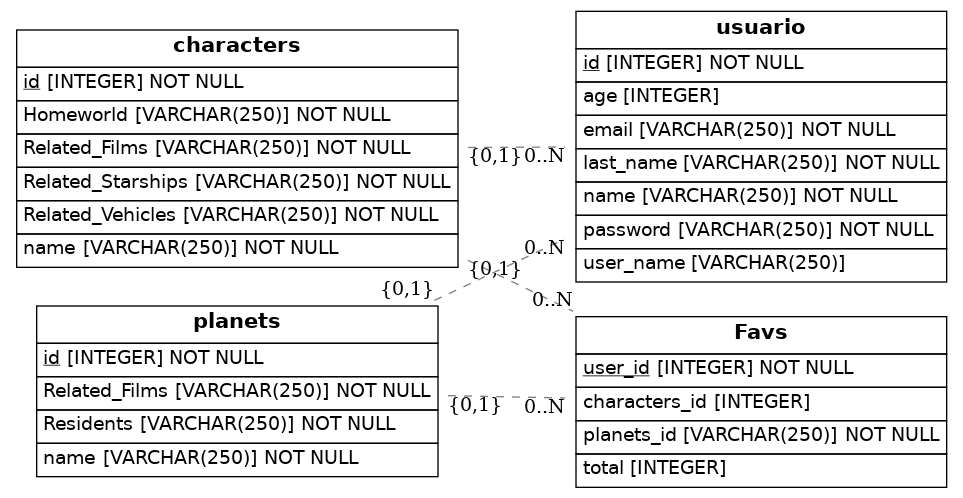
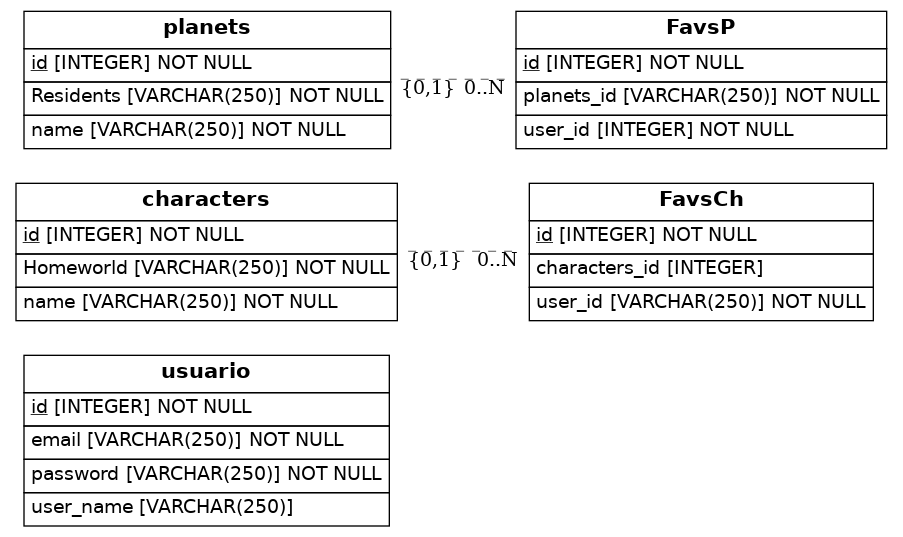
hjcvsjd

Changed region(s): [[0.0, 0.0, 0.9922, 0.994]]

diff --git a/src/models.py b/src/models.py
@@ -13,10 +13,11 @@ class Usuario(Base):
     # Here we define columns for the table person
     # Notice that each column is also a normal Python instance attribute.
     id = Column(Integer, primary_key=True)
-    user_name = Column(String(250), default= {name})
+    user_name = Column(String(250))
     password = Column(String(250), nullable=False)
     email = Column(String(250), nullable=False)
-   
+
+ 
 
 class Characters(Base):
     __tablename__ = 'characters'
@@ -24,6 +25,7 @@ class Characters(Base):
     name = Column(String(250), nullable=False)
     Homeworld = Column(String(250), nullable=False)
 
+    
 class Planets(Base):
     __tablename__ = 'planets'
     id = Column(Integer, primary_key=True)
@@ -31,12 +33,19 @@ class Planets(Base):
     Residents = Column(String(250), nullable=False)
 
 
-class Favs(Base):
-    __tablename__ = 'Favs'
-    planets_id = Column(String(250), nullable=False)
-    characters_id = Column(Integer)
-    total = Column(Integer )
-    
+class FavsP(Base):
+    __tablename__ = 'FavsP'
+    id = Column(Integer, primary_key=True)
+    planets_id = Column(String(250), ForeignKey('planets.id'), nullable=False)
+    user_id = Column(Integer,  ForeignKey('user.id'), nullable=False)
+
+   
+
+class FavsCh(Base):
+    __tablename__ = 'FavsCh'
+    id = Column(Integer, primary_key=True)
+    user_id = Column(String(250), ForeignKey('user.id'), nullable=False)
+    characters_id = Column(Integer, ForeignKey('characters.id'))
 
     def to_dict(self):
         return {}
